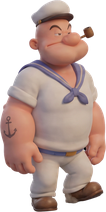
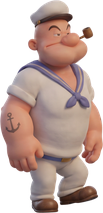
Yere vurma pozları değişti, çift göz kırpma eklendi (v0.08)
- reis_idle2/3 artık yeni görsellerle; sabırsız modda ikisi de eşit ve
  kısa sürede (pıt pıt pıt) değişiyor, ses kullanıcı tarafından eklenecek.
- Yeni reis_idle4 (açık göz) / reis_idle5 (kapalı göz) eklendi. Normal
  beklemede ara sıra (3.5-7sn) çift göz kırpma oynatılıyor: kapa-aç-kapa-aç,
  sonra normal bekleme pozuna dönüyor.
- Artık gerekmeyen REIS_GORSEL_DY ayak-kaydırma düzeltmesi kaldırıldı.

Claude-Session: https://claude.ai/code/session_017AaaMCeVHMkA1CeuVEH2QL

diff --git a/www/js/game.js b/www/js/game.js
@@ -19,15 +19,14 @@ const REIS_HIZ = 200, KAZMA_HIZ = 110;
 // Boşta bekleme animasyonu zamanlaması (ms)
 const IDLE_BEKLEME_MIN = 1400, IDLE_BEKLEME_MAX = 2800;           // poz 0<->1 arası bekleme
 const IDLE_SABIR_ESIGI = 9000;                                     // bu kadar hareketsiz kalınca sabırsızlanır
-const IDLE_KALDIRMA_MIN = 250, IDLE_KALDIRMA_MAX = 450;            // poz 2 (ayak kaldırma) kısa sürer
-const IDLE_VURMA_MIN = 1400, IDLE_VURMA_MAX = 2200;                // poz 3 (vurma + tozlu) ekranda uzun kalır
-// Bazı pozlarda ayağın görsel olarak yere tam basması için küçük aşağı kaydırma (px)
-const REIS_GORSEL_DY = { reis_idle2: 5 };
+const IDLE_SABIRSIZ_MIN = 150, IDLE_SABIRSIZ_MAX = 260;            // sabırsız pozlar (2<->3): pıt pıt pıt, ikisi de kısa ve eşit
+const IDLE_KIRPMA_ARALIK_MIN = 3500, IDLE_KIRPMA_ARALIK_MAX = 7000; // normal beklemede ara sıra çift göz kırpma
+const IDLE_KIRPMA_KARE_SURE = 110;                                  // kırpma: kapa-aç-kapa-aç, her kare kısa
 
 const SPRITELAR = [
   ...[0, 1, 2, 3, 4, 5].map((i) => "reis_walk" + i),
   "reis_pump0", "reis_pump1", "reis_dus", "btn_tamekran",
-  ...[0, 1, 2, 3].map((i) => "reis_idle" + i),
+  ...[0, 1, 2, 3, 4, 5].map((i) => "reis_idle" + i),
   ...[0, 1, 2, 3, 4, 5].map((i) => "reis_kaz" + i),
   ...[0, 1, 2, 3].map((i) => "reis_fall" + i),
   ...[0, 1, 2, 3, 4].map((i) => "crab_walk" + i),
@@ -639,31 +638,41 @@ class Oyun extends Phaser.Scene {
         if (!kaziyor) this.ses("ses_adim" + Phaser.Math.Between(1, 3), { volume: 0.6 });
       }
       tex = kaziyor ? this.kareler.reis_kaz[Math.floor(r.kare) % 6] : this.kareler.reis_walk[Math.floor(r.kare) % 6];
-      r.idleSure = 0;
+      r.idleSure = 0; r.blinkAsama = 0; r.blinkZaman = undefined;
     } else if (r.pompa > 0) {
       tex = this.kareler.reis_pump[Math.floor(zaman / 120) % 2];
-      r.idleSure = 0;
+      r.idleSure = 0; r.blinkAsama = 0; r.blinkZaman = undefined;
     } else if (r.yerde) {
       // Boşta bekleme: ilk iki poz arasında aralıklarla geçiş yapar (peş peşe değil).
-      // Uzun süre kıpırdamazsa sabırsızlanıp ayağını yere vurma moduna (3-4) geçer.
+      // Uzun süre kıpırdamazsa sabırsızlanıp ayağını yere vurma moduna (2-3, pıt pıt pıt) geçer.
       r.idleSure = (r.idleSure || 0) + dt * 1000;
       const sabirsiz = r.idleSure > IDLE_SABIR_ESIGI;
       if (r.idleDegisim === undefined || zaman > r.idleDegisim || r.idleSabirsizDi !== sabirsiz) {
         r.idlePoz = r.idlePoz === 0 ? 1 : 0;
         r.idleSabirsizDi = sabirsiz;
-        let minB, maxB;
-        if (sabirsiz) {
-          // poz 0 -> reis_idle2 (ayak kaldırma, kısa), poz 1 -> reis_idle3 (vurma/tozlu, uzun)
-          minB = r.idlePoz === 0 ? IDLE_KALDIRMA_MIN : IDLE_VURMA_MIN;
-          maxB = r.idlePoz === 0 ? IDLE_KALDIRMA_MAX : IDLE_VURMA_MAX;
-        } else {
-          minB = IDLE_BEKLEME_MIN; maxB = IDLE_BEKLEME_MAX;
-        }
+        const minB = sabirsiz ? IDLE_SABIRSIZ_MIN : IDLE_BEKLEME_MIN;
+        const maxB = sabirsiz ? IDLE_SABIRSIZ_MAX : IDLE_BEKLEME_MAX;
         r.idleDegisim = zaman + Phaser.Math.Between(minB, maxB);
       }
-      tex = sabirsiz
-        ? (r.idlePoz === 0 ? "reis_idle2" : "reis_idle3")
-        : (r.idlePoz === 0 ? "reis_idle0" : "reis_idle1");
+      if (sabirsiz) {
+        tex = r.idlePoz === 0 ? "reis_idle2" : "reis_idle3";
+        r.blinkAsama = 0; r.blinkZaman = undefined;
+      } else {
+        // Normal beklemede ara sıra çift göz kırpma: kapa-aç-kapa-aç, sonra açık devam
+        if (r.blinkZaman === undefined) r.blinkZaman = zaman + Phaser.Math.Between(IDLE_KIRPMA_ARALIK_MIN, IDLE_KIRPMA_ARALIK_MAX);
+        if (!r.blinkAsama && zaman > r.blinkZaman) { r.blinkAsama = 1; r.blinkDegisim = zaman + IDLE_KIRPMA_KARE_SURE; }
+        if (r.blinkAsama && zaman > r.blinkDegisim) {
+          r.blinkAsama++;
+          r.blinkDegisim = zaman + IDLE_KIRPMA_KARE_SURE;
+          if (r.blinkAsama > 4) {
+            r.blinkAsama = 0;
+            r.blinkZaman = zaman + Phaser.Math.Between(IDLE_KIRPMA_ARALIK_MIN, IDLE_KIRPMA_ARALIK_MAX);
+          }
+        }
+        if (r.blinkAsama === 1 || r.blinkAsama === 3) tex = "reis_idle5";       // göz kapalı
+        else if (r.blinkAsama === 2 || r.blinkAsama === 4) tex = "reis_idle4"; // göz açık (kırpma pozu)
+        else tex = r.idlePoz === 0 ? "reis_idle0" : "reis_idle1";
+      }
     } else {
       tex = "reis_walk0";
     }
@@ -675,7 +684,7 @@ class Oyun extends Phaser.Scene {
     else r.spr.setAlpha(1);
 
     if (havada) r.spr.setOrigin(0.5, 0.5).setTexture(tex).setFlipX(r.yon > 0).setPosition(r.x, r.y - 58);
-    else r.spr.setOrigin(0.5, 1).setTexture(tex).setFlipX(r.yon < 0).setPosition(r.x, r.y + (REIS_GORSEL_DY[tex] || 0));
+    else r.spr.setOrigin(0.5, 1).setTexture(tex).setFlipX(r.yon < 0).setPosition(r.x, r.y);
 
     // Pompa hortumu: pompanın alt ucundan çıkar, yerde kıvrılarak düşmana gider
     const h = this.pompaHedef;

diff --git a/www/js/config.js b/www/js/config.js
@@ -1,7 +1,7 @@
 // Oyunun tüm ayarları burada. AdMob ID'lerini buraya yaz.
 window.OYUN_CONFIG = {
   oyunAdi: "DigPopeyeDug",
-  surum: "v0.07", // sağ altta görünür
+  surum: "v0.08", // sağ altta görünür
   paketAdi: "com.jawk.digpopeyedug", // Play Store'a yüklendikten sonra DEĞİŞTİRİLEMEZ
 
   reklam: {
